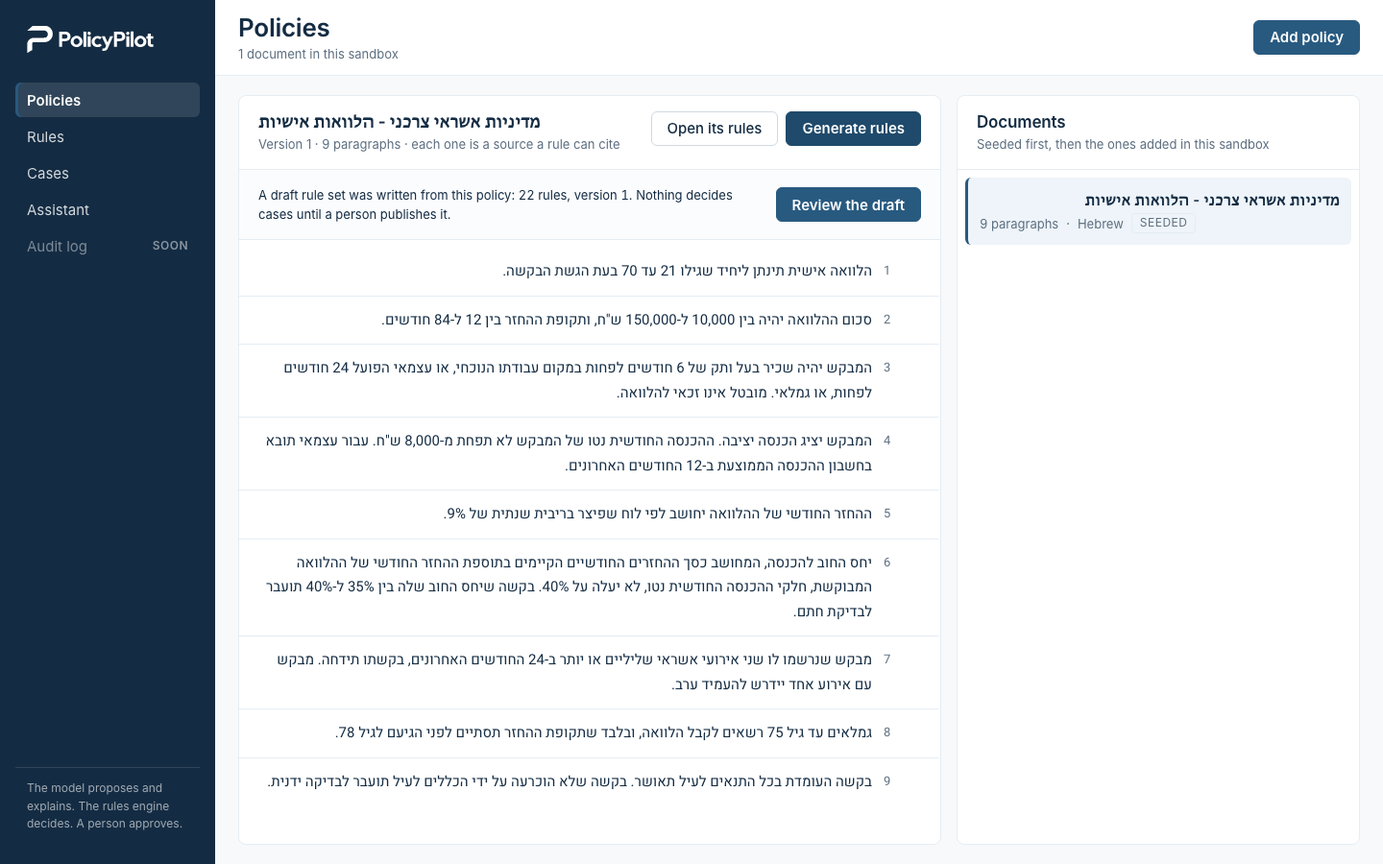
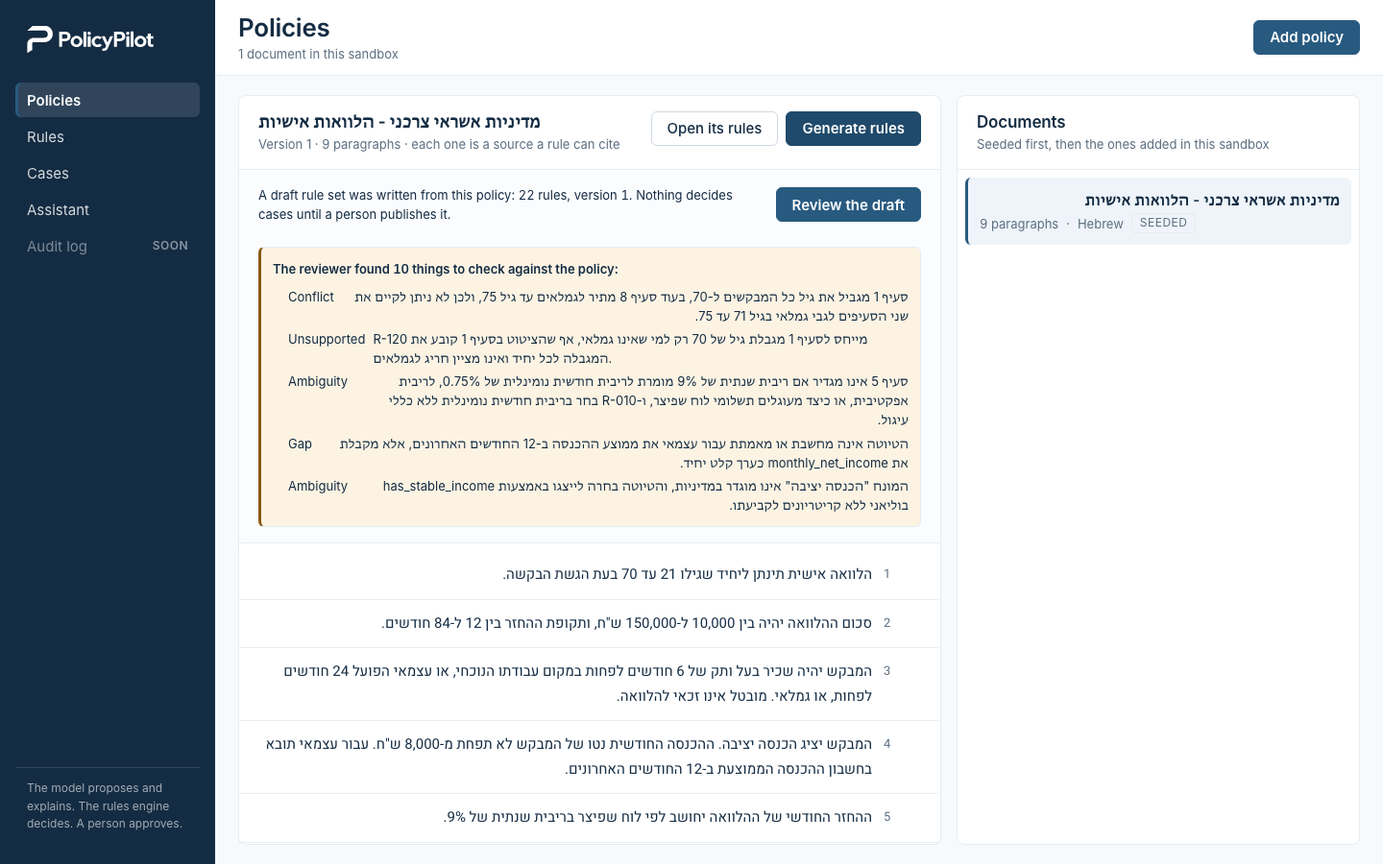
Close day 10: the worklog line, the cloud check, the ticked boxes and the README (#89)
Day 10 of the restored plan is done and live: the reviewer, explain, their screens and
the four fixes the cloud and the browser walk found. The checklist ticks its four boxes,
so rungs 9, 8 and 5 leave the README's known limitations, where the rule-match line now
says the reviewer raises the "stable income" ambiguity on the draft and the author
prompt is day 11's decision. The demo script carries step 1 with its ten findings and
step 2 with the explanation of case 17, as measured on the live site. RUNBOOK section 6
tells the owner in plain Hebrew what the two new things are. Screenshots of both walks,
desktop and phone, replace the ones of the freeze.

Changed region(s): [[0.1875, 0.28, 0.6875, 0.9644]]

diff --git a/docs/worklog.md b/docs/worklog.md
@@ -23,6 +23,7 @@ Format of a line:
 | 2026-09-21 | 8 | Day 8 (`rag`) done nine days early, in six pull requests (#59 to #64): Documents 2, 4 and 5 settled what they left open or said twice (#59: `rag` depends on `ruleset`; `embedding_status` values; the not-covered gate is the best chunk's cosine, since a fused score never passes 2/61; no Spring AI vector store; one lexical normalization; the fixed sentence in both languages; the retrieval route); V7 with `chunk`, its HNSW, GIN and B-tree indexes, the API role's grants, `embedding_status` and the published-version trigger relaxed for that one column, and the chunker in the cell grammar of Document 3 (#60); the embedding job on publish, the Spring AI embedding adapter, the startup dimension check, and ArchUnit keeping native SQL inside `rag` and free of string building (#61); hybrid retrieval with RRF, the Threshold, citations checked against the version, and `POST /rulesets/{id}/versions/{no}/retrieval` (#62); startup no longer re-takes a version being embedded (#63); the live pass over the 30 questions with its recordings and report (#64). 976 unit, 258 integration, 206 Vitest tests. | Nothing | Found by tests before they shipped: the V7 backfill first ran under the old trigger and would have failed the migration on Railway (`EmbeddingStatusBackfillIT`); a web `ExecutorService` bean suppressed Boot's task executor, so the job has a virtual-thread executor of its own; re-taking `EMBEDDING` versions at startup races a rolling deploy and concurrent test contexts (#63, Document 2 first). Every Spring test context gets a fake embedding gateway, or the startup job would call OpenAI. The fixture privacy check reads an embedding recording by its texts, since base64 vectors carry digit runs. Live pass (`docs/eval/retrieval-first-pass.md`): recall at 8 is 38 of 48; Hebrew misses are Q-07 (`p:6`) and Q-12 (`p:4`), paragraphs reached only through a rule's quote; Q-14, English on the Hebrew policy, is falsely refused at 0.294, and no threshold separates it from the true refusals at 0.302 and 0.303, so 0.35 stays. CI stage 2 failed twice on a 403 from GitHub's artifact service; re-run, green. | `rag.service` 96.8% line, 91.5% branch; `rag.repository` 92.9%, 100%; `ruleset.service` 99.1%, 93.6%; `ai.adapter` 89.0%, 76.3%; `web.controller` 91.7%, 92.9%; `web.request` 84.4%, 80.0%; `web.response` 100%; `engine` 100%, 100%; `rules.*` 100%, 99.2% to 100% | 100% on `engine` and `rules`, hard gate; neither package changed | 200 cases in 129 ms and a single decision 13 ms (medians, measured inside the full parallel IT run with embedding jobs alongside; day 7's 80 ms and 5 ms were quieter runs) | n/a (the chat stream is day 9) |
 | 2026-09-22 | 9 | Day 9 (`answer` and chat) done nine days early, in five pull requests (#66 to #70): Documents 2, 4 and 7 settled the chat before it was built (#66: history rendered from `chat_message` rather than Spring AI chat memory, `ChatTool` objects with the application number, the tool-limit sentence in both languages, 20 s to the first token and 60 s in all, no resume, `ANSWER_WITHHELD`); `LlmGateway.stream`, the marker resolver that holds a partial marker and drops one not supplied, and `answer/v1` (#67); V8 with `chat_session` and `chat_message`, `POST /chat/sessions` and the messages stream, the last 10 turns as history, `getDecision` and `simulate` with their validators, sandbox scope and caps, the denylist scan of the stream, and the chat use case split into `ai.chat` (database, merged gate) and `ai.service.chat` (unit gate) (#68); the assistant screen with streaming, RTL, citation chips that open a paragraph, a rule or the cases, a retry, and Playwright step 3 (#69); the live recordings of the three scripted questions and their offline replay (#70). 1040 unit, 290 integration, 223 Vitest and 16 Playwright tests. | Nothing | The first live run found two faults every fake had hidden (#70, Documents 2 and 4 first): Spring AI 2.0's chat model stream ends with the tool call and runs nothing (tool execution moved to the `ChatClient` advisors), so the referral and guarantor questions came back empty; the adapter now runs the calls through `ToolCallingManager` and streams again, at most five rounds, with the usage of every round; and the fast model refuses function tools with reasoning over chat completions, so a turn with tools asks for `reasoning_effort: none`. Retrieval does not find `p:7` for "why was application 17 referred?" (day 8's report), so a decision or simulation result now supplies the rule that decided it and the paragraph that rule quotes as `sources`, and prompt rule 1 asks an explanation to cite them; `answer/v1` was never shipped, so it stayed v1. Of two live runs after that change, the first worded Q-02's approval differently from the label; the second run's answers are the recordings. The fixture privacy check read a recording's SHA-256 input hash as a nine-digit number; a 64-character hex digest is now left out before the scan. | `ai.chat` 96.4% line, 80.0% branch; `ai.service.chat` 96.5%, 92.0%; `ai.adapter` 90.1%, 76.5%; `ai.prompt` 97.4%, 94.8%; `web.controller` 88.9%, 92.9%; `web.request` 85.9%, 78.3%; `web.validation` 97.9%, 94.0%; `decision.service` 98.1%, 88.0%; `engine` 100%, 100%; `rules.*` 100%, 99.2% to 100% (merged unit and integration) | 100% on `engine` and `rules`, hard gate; neither package changed | Not re-measured; neither the engine nor the batch path changed | On the cloud site, live and uncached: 4.5 s for Q-01 (one tool call), 3.7 s for Q-02 (two), 1.4 s for Q-03 (none), 0.7 s for Q-04 (no model call); the 3 s target for the scripted questions is day 10's cache warm-up |
 | 2026-09-22 | 10 | Day 10's build and freeze done twelve days early, in five pull requests (#72 to #76): Documents 2, 4 and 6 settled what `cache: scripted-only` means before it was built (#72); the scripted answers kept only when they meet their label from the evaluation set and served only after their tool calls return the same results in the caller's sandbox, through `ai.AnswerCache` and `ai.adapter.ScriptedAnswerCache` (#73); the README with the demo as measured, the Definition of Done lines 1 to 6 with evidence, the known limitations, the rule-match report, and a stage 1 check that the limitations name every cut of this checklist (#74); an engine decision under a millisecond shown in microseconds, found in the browser walk (#75); the owner's interview kit in RUNBOOK section 12 and one screenshot per step (#76). `main` tagged `v1.0.0` with its SBOM. 1,050 unit, 299 integration, 224 Vitest and 16 Playwright tests. | The rehearsal from a second machine and a phone (1.10), the video, the secrets rotation and the interview kit (4.10) are the owner's and dated in RUNBOOK section 12; Gate G4 closes with them | Documents first (#72): the cache key is every cached call's key (prompt, model, rendered prompts), so history is part of it; a hit re-runs the stored tool calls through the turn's own tools and needs equal results, because the engine is deterministic and a cached explanation must never outlive the decision it explains; the chat reaches the cache through an interface in `ai`, so the use case never imports the adapter. Found by tests: ChatStreamIT asked the scripted Hebrew term question with a fake answer that met its label, so a kept answer would have replaced the streams later tests script; it asks in English now. Found on the cloud: in the demo order Q-02 was answered "התוצאה הייתה אישור" four times, correct but not the label's "מאושר", so none was kept and the label was not loosened; the fifth met it. A cached answer still embeds the question for retrieval, which is what varies its time. The Brief's line 3 is **not met**: a manual checklist with Document 4's rule matches 14 of 18 labeled rules on the canonical run and 67% at the median (docs/eval/rule-match-lending.md); every run leaves the installment and ratio unrounded (a label convention the policy never states) and turns the undefined "stable income" into a rejecting input; the author prompt was not tuned on the last day, because a v2 needs ten live runs and would change demo step 1. Document 6's cross-machine byte comparison is not in CI; the live site's decision 17 equals the Python reference's field for field instead. `POLICYPILOT_ADMIN_CODE` guards nothing (no reset endpoint); deleting it is the owner's step in section 12. | `ai` 100% line, 100% branch; `ai.chat` 96.9%, 90.9%; `ai.service.chat` 95.7%, 92.9%; `ai.adapter` 90.7%, 76.5%; `ai.cache` 95.0%, 75.0%; `web.controller` 88.9%, 92.9%; `engine` 100%, 100%; `rules.*` 100%, 99.2% to 100% (merged unit and integration) | 100% on `engine` and `rules`, hard gate; neither package changed | 200 cases in 1.3 to 1.7 s end to end on the live site from a laptop (a small GET is 0.48 s), 76 to 129 ms in the test environment | On the live site, from the cache: 0.59 to 0.8 s for Q-01 to Q-03, in the demo order and alone (12 of 14 asks; the other two 1.3 s and 3.0 s, the query embedding), 0.6 s Q-04 (no model call); live, before the cache held them: 1.1 to 2.7 s. Right after a deploy the first answer takes about 3.7 s (cold JVM) |
+| 2026-09-22 | 10 (restored plan) | The original day 10 built on the same day the full plan came back, in seven pull requests (#80 to #88): Documents 2, 3 and 4 first (#80: the review stored with its draft in `review_json`, `POST .../review` and `POST .../findings/{id}/acknowledge`, the publish answering 422 `FINDINGS_UNRESOLVED`, and the explanation cached by the decision object rather than its id, because every visitor decides case 17 under a new id); `review/v1` with the six kinds, anchor checks and the three contract rules, the `reviewing` stage in the generation stream, the gate that keeps an error, a gap or an injection from being published unacknowledged, and RT-05 end to end (#82); `explain/v1` from the trace alone, with the fired, paragraph and flag filters and both audiences (#83); the screens: the review panel with its acknowledgements, marks on the rows a finding names, and "Explain" in the trace view (#84); and four fixes the cloud and the browser walk found (#85 to #88). 1,116 unit, 329 integration, 252 Vitest and 19 Playwright tests. | Nothing of day 10; day 11 (`EvalRunner` and gate G2) opens tomorrow | Found on the cloud (#85, Documents 2 and 4 first): the first review of the demo draft broke the Findings contract and the gateway cached it, so generating again served the same refused answer, and the analyst could never get another one. `POST .../review` is now a fresh call that forgets the cached answer first, a refused answer is forgotten too, and a finding that breaks the contract is dropped alone instead of failing the whole review. Found in the browser walk (#86, #88): after step 1 opens the draft, the workspace is on it, so "Run 200 cases" was refused with `VERSION_STATUS_CONFLICT` and the assistant said there was no published version to ask about; both screens now work on the newest published version, with a note. Found in the same walk (#87): ten findings pushed the decision table below the fold, and the draft summary broke Hebrew sentences into five lines. Two settings moved before any of that, from the first live runs: the review gets 180 s and 16,000 tokens (it timed out at 45 s), and explain sends no temperature and gets 4,000 tokens (0.3 was refused, and the answers used up to 707 of 800). Reviewer recall on the labeled set is 79 of 90 seeded defects (0.88; the target is 0.80), measured over one live run of all 18 policies. | `ai` 100% line, 100% branch; `ai.service` 98.8%, 94.0%; `ai.adapter` 90.8%, 76.5%; `ai.cache` 95.7%, 66.7%; `ruleset.service` 99.0%, 94.0%; `web.controller` 90.9%, 86.7%; `web.response` 98.1%, 87.5%; `engine` 100%, 100%; `rules.*` 100%, 99.4% to 100% (merged unit and integration); web app 92.9% statements, 85.8% branches | 100% on `engine` and `rules`, hard gate (1,207 of 1,207) | 200 cases in 1.4 s end to end on the live site, 61 µs for case 17 in the engine | On the live site, from the cache: 0.9 s to the draft with its review (step 1), 0.5 s for the explanation of case 17, 1.1 to 1.6 s to the first token of the term question |
 
 ## Plan change: the two-week version (decided 2026-09-18)
 
@@ -169,3 +170,27 @@ Hebrew and RTL check of the chat, the Definition of Done lines 1 to 6 walked on 
 - Compose smoke on a clean runner: 93 s of the 300 s budget,
   https://github.com/liorshaya/PolicyPilot/actions/runs/35672409158.
 
+## Day 10 of the restored plan, cloud check (collected 2026-09-22): passed
+
+Work Plan, day 10, Done when: "Step 1 shows the ambiguity and the conflict on the cloud site; Explain on case 17 cites
+R-330 and its paragraph".
+
+- Walked in Chromium on https://policypilot.liorshaya.com, a 1440 x 900 desktop and an iPhone 13 viewport, as a new
+  visitor each time; no console error and no horizontal overflow on either.
+- **Step 1**: the stream ran `parsing`, `authoring`, `validating`, `reviewing`, then the draft of 22 rules in 0.9 s,
+  both the author's answer and the review from the cache. The review has 10 findings, among them **F-1 `conflict` on
+  paragraphs 1 and 8** (age 70 against retirees to 75, SF-2 of the labeled set) and **F-5 `ambiguity` on paragraph 4**
+  (the undefined "stable income", SF-1). Opening the draft showed 13 marks on the rows the findings name, two of them
+  conflicts, and "Publishing waits: 7 findings must be acknowledged".
+- The first review of that draft, before #85, broke the Findings contract and was cached as `FAILED`; it took 80 s and
+  cost the demo nothing, because the answer is now read leniently and the route asks again. One finding of that answer
+  is still dropped as `CONTRACT`, and the other ten stand.
+- **Step 2**: the 200 cases decided in 1.4 s (113 approved, 60 rejected, 27 referred), case 17 in 61 µs, and
+  "Explain for an officer" cited **R-010 (¶ 5), R-020 (¶ 6) and R-330 (¶ 7)** with the rules that were evaluated and
+  did not apply. The first explanation took 14.4 s live; afterwards 0.4 to 0.6 s from the cache, including in a
+  sandbox that had never asked for it, because the key is the decision object and not its id.
+- **Step 3** still answers: the term question came back with "84 חודשים" and its `¶ 2` and `R-130` chips in 1.1 to
+  1.6 s.
+- Two demo-flow faults the walk found are fixed and live (#86, #88): the cases and the assistant now work on the newest
+  published version when the workspace is on a fresh draft, and say so.
+- Screenshots of both walks are in `docs/demo/`.

diff --git a/README.md b/README.md
@@ -69,8 +69,8 @@ visitor, by a script and in Chromium on a desktop and on an emulated iPhone 13.
 
 | Step | Input | What appears | Measured |
 | --- | --- | --- | --- |
-| 1. Author | Policy screen, the seeded Hebrew lending policy (9 paragraphs), "Generate rules" | The stages parsing, authoring and validating, then a draft of 22 rules. Each row opens the paragraph it quotes | 0.6 s to the draft, from the response cache (a run the cache has not seen takes 67 to 101 s) |
-| 2. Decide | Cases screen, "Run 200 cases" | 113 approved, 60 rejected, 27 referred, the rules that decided most, and case 17: referred by R-330 with the values it compared | 1.3 to 1.7 s end to end, of which about 0.5 s is the network (76 to 129 ms inside the test environment) |
+| 1. Author | Policy screen, the seeded Hebrew lending policy (9 paragraphs), "Generate rules" | The stages parsing, authoring, validating and reviewing, then a draft of 22 rules with the reviewer's 10 findings: among them the conflict between paragraphs 1 and 8 (age 70 against retirees to 75) and the undefined "stable income" of paragraph 4. "Review the draft" opens the rule set: each finding names the rules and paragraphs it concerns, every rule it names carries a mark on its row, and publishing waits until the errors, the gaps and the injections are acknowledged | 0.9 s to the draft, both answers from the response cache (a draft the cache has not seen takes 67 to 101 s, its review 50 to 80 s) |
+| 2. Decide | Cases screen, "Run 200 cases", then case 17, then "Explain for an officer" | 113 approved, 60 rejected, 27 referred, the rules that decided most, and case 17: referred by R-330 with the values it compared. The explanation cites R-010 (¶ 5), R-020 (¶ 6) and R-330 (¶ 7), says a model wrote it from the trace alone, and lists the rules that were evaluated and did not apply | 1.4 s for the 200 cases, 0.5 s for the explanation from the cache (14 s the first time); case 17 itself decides in 61 µs |
 | 3. Ask | Assistant screen, the three questions below, then the rate question | Hebrew answers streamed right to left, with citation chips that open the paragraph, the rule or the decision | first token: 0.6 to 0.8 s for each question in 12 of 14 asks |
 
 The questions of step 3, as asked, with what the answer must contain (the labels of
@@ -180,12 +180,8 @@ restored: each cut leaves this list in the pull request that ships it.
 
 - **The change flow** (rung 10): no change requests, patches, regression report, approval or version 2. Demo step 4
   is a closing slide from the design. Brief line 7 is not met.
-- **The reviewer pass** (rung 9): step 1 shows the validator's findings but not the reviewer's ambiguity and conflict
-  warnings.
-- **Explain** (rung 8): a decision is explained by its trace and by the chat, not by a dedicated explanation.
 - **The guided demo panel** (rung 7): the presenter types the inputs; this script carries them.
 - **The `stats` and `rules` chat tools** (rung 6): the chat has `getDecision` and `simulate` only.
-- **The applicant audience of explain** (rung 5): cut with explain.
 - **The full-set evaluation run** (rung 4) and **the evaluation runner**: there is no automated report of
   precision, recall or citation accuracy, and gate G2 fell away with them. The labeled set is committed and the
   reference admits it.
@@ -193,9 +189,10 @@ restored: each cut leaves this list in the pull request that ships it.
   matches 14 of the 18 labeled rules (78%) and the median of the ten runs 12 (67%)
   ([report](docs/eval/rule-match-lending.md)). Two misses are in every run. The model leaves the installment and the
   debt ratio unrounded, a convention of the label that the policy never states. It also turns "stable income", which
-  the policy leaves undefined, into a yes/no field that rejects, where the label flags it for a manual check. That is
-  the ambiguity the cut reviewer (rung 9) was meant to raise. The author prompt was not tuned before the interview,
-  because a new version would need ten new live runs and would change demo step 1 on its last day.
+  the policy leaves undefined, into a yes/no field that rejects, where the label flags it for a manual check. The
+  reviewer now raises that ambiguity on the draft itself (paragraph 4), and the analyst resolves it before publishing;
+  the rules the model writes are still the ones scored here. Whether `author/v2` is written is decided by the
+  evaluation runner on day 11, because a new version needs ten new live runs and changes demo step 1.
 - **The Ollama column** (rung 3): the `ollama` profile starts (its context test passes) but the chat step was not
   run on a local model, so Brief line 8 is not verified.
 - **The second domain and the encore** (rung 2): only the lending policy is seeded.

diff --git a/RUNBOOK.md b/RUNBOOK.md
@@ -163,10 +163,19 @@ make e2e           # בדיקת דפדפן אמיתי (Playwright)
 סעיף אחד בהגדרת "גמור" לא מתקיים, וה-README אומר את זה בגלוי: התאמת החוקים שהמודל כותב לחוקים הצפויים היא 78%,
 והיעד הוא 90%. הפירוט נמצא בדוח שבתיקייה docs/eval.
 
-**מה קורה עכשיו: חזרנו לתוכנית המלאה.** ב-22.9 החלטת להחזיר את כל מה שנחתך. עד שני 28.9 אני בונה את ימים 10 עד 16:
-הסוקר שמסמן עמימות וסתירה במדיניות, הסבר להחלטה, מדידה אוטומטית של איכות המודל, שלב 4 של הדמו (בקשת שינוי,
-השוואה בין גרסאות ואישור שלך), פאנל שמוביל את הדמו, איפוס של האתר, ומודל מקומי. שלישי 29.9 שמור למה שיגלוש. כל
-תכונה יוצאת מרשימת המגבלות ב-README רק כשהיא עובדת באתר.
+**מה קורה עכשיו: חזרנו לתוכנית המלאה.** ב-22.9 החלטת להחזיר את כל מה שנחתך. עד שני 28.9 אני בונה את ימים 10 עד 16.
+כל תכונה יוצאת מרשימת המגבלות ב-README רק כשהיא עובדת באתר.
+
+**יום 10 גמור, והוא כבר באתר.** שני דברים חדשים:
+
+- **סוקר.** אחרי שהמודל כותב את החוקים, הוא קורא אותם שוב מול המדיניות ומדווח מה שתוכנה לא יכולה למצוא. בדמו הוא
+  מוצא סתירה בין סעיף 1 לסעיף 8 (גיל 70 מול גמלאים עד 75), ואת המונח "הכנסה יציבה" שאינו מוגדר בסעיף 4. כל ממצא
+  מסומן על שורות החוקים שהוא נוגע להן, ואי אפשר לפרסם גרסה לפני שאדם מאשר כל שגיאה, כל חוסר וכל הוראה שנשתלה בטקסט.
+- **הסבר להחלטה.** במסך המקרים, אחרי שפותחים מקרה, יש כפתור "Explain" בשתי גרסאות: לפקיד ולמבקש. ההסבר נכתב רק מתוך
+  ה-trace, וכל כלל וכל סעיף שהוא מצטט נבדקים מול ה-trace לפני שהם מוצגים. במקרה 17 הוא מצטט את R-330 ואת סעיף 7.
+
+שאר הימים: מדידה אוטומטית של איכות המודל, שלב 4 של הדמו (בקשת שינוי, השוואה בין גרסאות ואישור שלך), פאנל שמוביל
+את הדמו, איפוס של האתר, ומודל מקומי. שלישי 29.9 שמור למה שיגלוש.
 
 **גרסת הגיבוי.** התג v1.0.0 נשאר. אם משהו נשבר באתר ואין זמן לתקן, אני מחזיר את השרת לגרסה הזו. השינויים במסד
 הנתונים רק מוסיפים, ולכן הגרסה הישנה ממשיכה לעבוד עליו.

diff --git a/docs/progress-checklist.md b/docs/progress-checklist.md
@@ -148,11 +148,11 @@ the Definition of Done walk and the tag, named the v1.0.0 freeze (2026-09-22). D
 
 **Day 10, Tue Sep 22 to Wed Sep 23: `review` and `explain`**
 
-- [ ] `review/v1` with the six kinds, anchors, severities; `reviewing` stage; warnings on decision table rows; gap acknowledgement before publish (restored: rung 9)
-- [ ] `explain/v1`: `POST /decisions/{id}/explain`, trace as the only source, fired-rules filter, caching, two audiences; "Explain" in the trace view (restored: rungs 8 and 5)
+- [x] `review/v1` with the six kinds, anchors, severities; `reviewing` stage; warnings on decision table rows; gap acknowledgement before publish (restored: rung 9; #82, #85, #87)
+- [x] `explain/v1`: `POST /decisions/{id}/explain`, trace as the only source, fired-rules filter, caching, two audiences; "Explain" in the trace view (restored: rungs 8 and 5; #83, #84)
 - [x] Labeled policies 4 to 9 with seeded findings (committed before day 1)
-- [ ] Tests: anchor validation; review recording per kind including `injection`; RT-05; publish blocked by an unacknowledged gap; explanation contract; skipped-rule citation filtered; explain caching; Playwright step 1 complete; findings rendering (restored: rungs 9 and 8)
-- [ ] Step 1 shows the ambiguity and the conflict on the cloud site; "Explain" on case 17 cites R-330 and its paragraph (restored: rungs 9 and 8)
+- [x] Tests: anchor validation; review recording per kind including `injection`; RT-05; publish blocked by an unacknowledged gap; explanation contract; skipped-rule citation filtered; explain caching; Playwright step 1 complete; findings rendering (restored: rungs 9 and 8)
+- [x] Step 1 shows the ambiguity and the conflict on the cloud site; "Explain" on case 17 cites R-330 and its paragraph (restored: rungs 9 and 8; the cloud check of 2026-09-22 in the worklog)
 
 **Day 11, Wed Sep 23: `EvalRunner` and G2**
 
